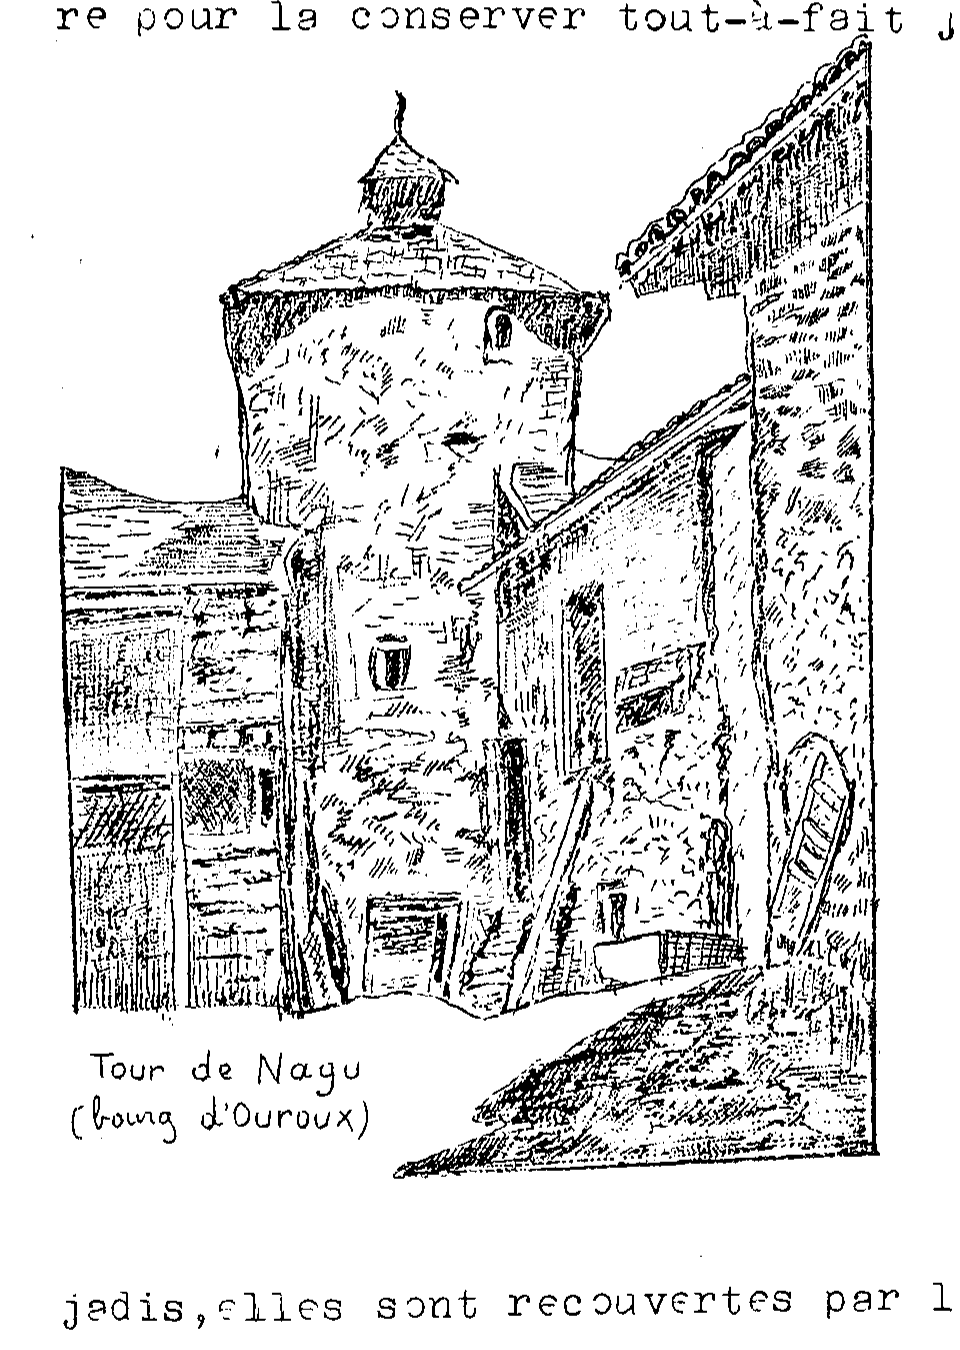
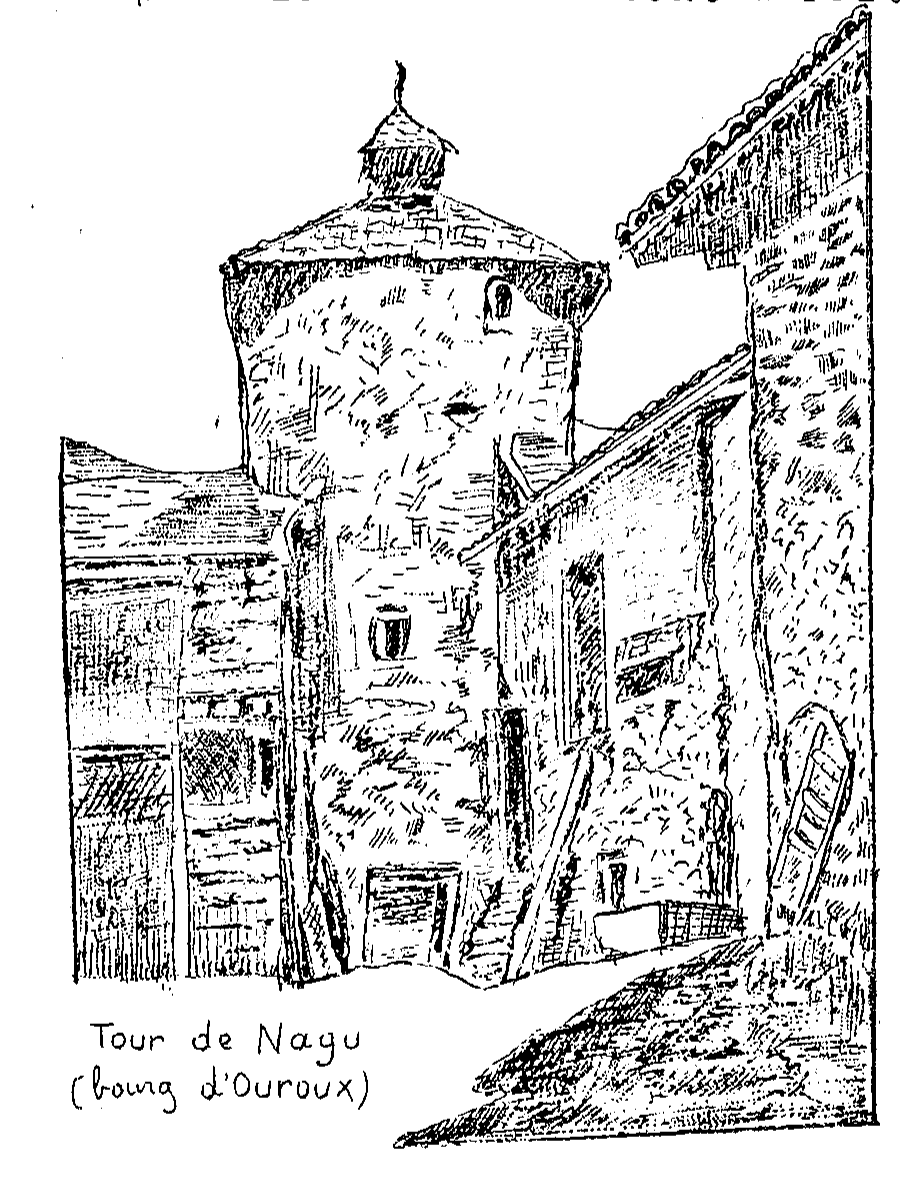
fix: corrections de mise en page du chapitre Nagu

diff --git a/Chapitres/08-nagu.tex b/Chapitres/08-nagu.tex
@@ -5,10 +5,10 @@
 \chapter{Nagu}
 
 % --- Page imprimée 35 — vue 38
-\begin{figure}[h!]
-    \centering
-    \includegraphics[width=0.40\textwidth]{Illustrations/illus-nagu-clocher-tour.png}
-\end{figure}
+\begin{wrapfigure}{l}{0.40\textwidth}
+    \vspace{-0.8\baselineskip}
+    \includegraphics[width=0.38\textwidth]{Illustrations/illus-nagu-clocher-tour.png}
+\end{wrapfigure}
 
 Ce fief était situé dans le bourg même d'Ouroux. La tradition aussi bien que les documents nous le prouvent et la tour qui subsiste encore continue de porter le nom de cette puissante famille qui illustra dans les siècles passés, la noblesse du Beaujolais. Nagu fut le fief le plus important de cette paroisse et fut certainement érigé le premier.
 
@@ -60,9 +60,12 @@ de Philippe Auguste ; les deux étages dateraient, au plus tôt, de la fin du XI
 
 Celle du premier étage, avons-nous dit, est une imitation grossière de la coupole de l'église même d'Ouroux : voûte octogonale dans la partie circulaire. Nous sommes portés à admettre naturellement qu'elle fut construite à l'époque où ce genre d'architecture prévalait dans nos contrées, c'est-à-dire vers le XII° siècle.
 
-Famille de Nagu
+\begin{wrapfigure}{l}{0.31\textwidth}
+    \vspace{-0.5\baselineskip}
+    \includegraphics[width=0.28\textwidth]{Illustrations/illus-nagu-armoiries.png}
+\end{wrapfigure}
 
-
+\subsection*{Famille de Nagu}
 
 La famille de Nagu a appartenu de toute antiquité à la famille du même nom, l'une des plus anciennes et des plus illustres de nos contrées. La filiation suivie que nous possédons de cette famille ne remonte qu'à l'époque où elle quitte Ouroux pour se fixer à Varennes, commune de Quincié en 1374.
 
